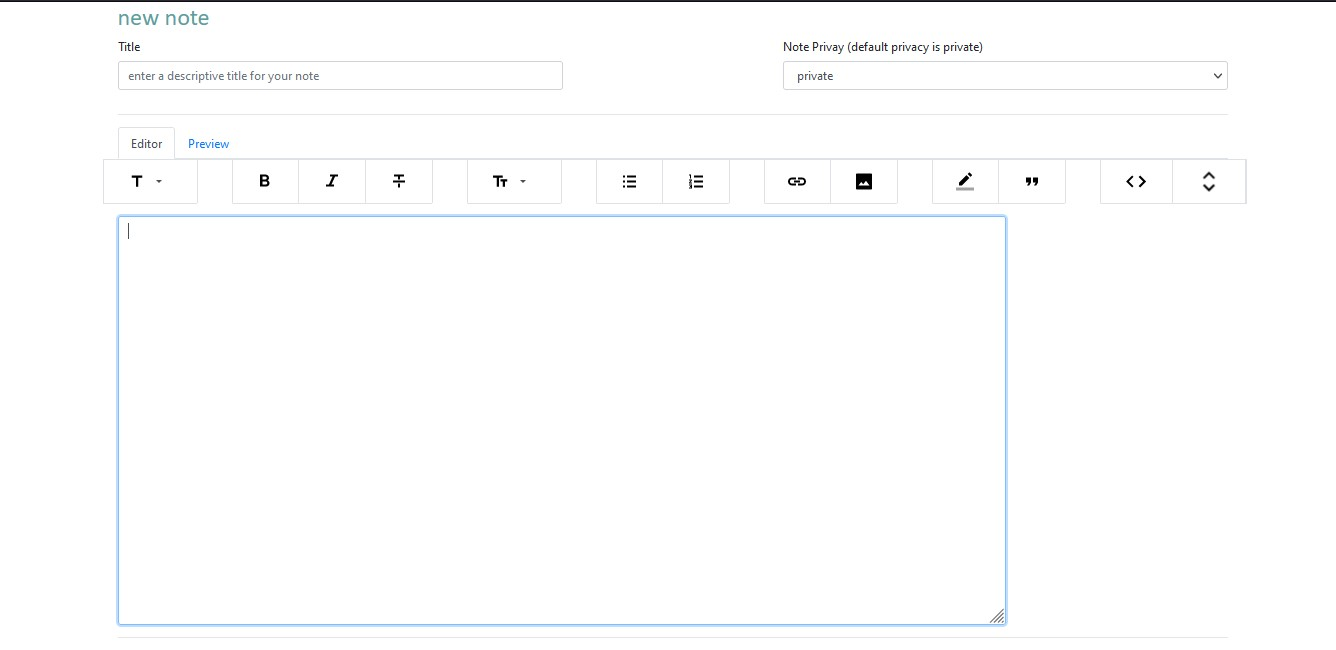
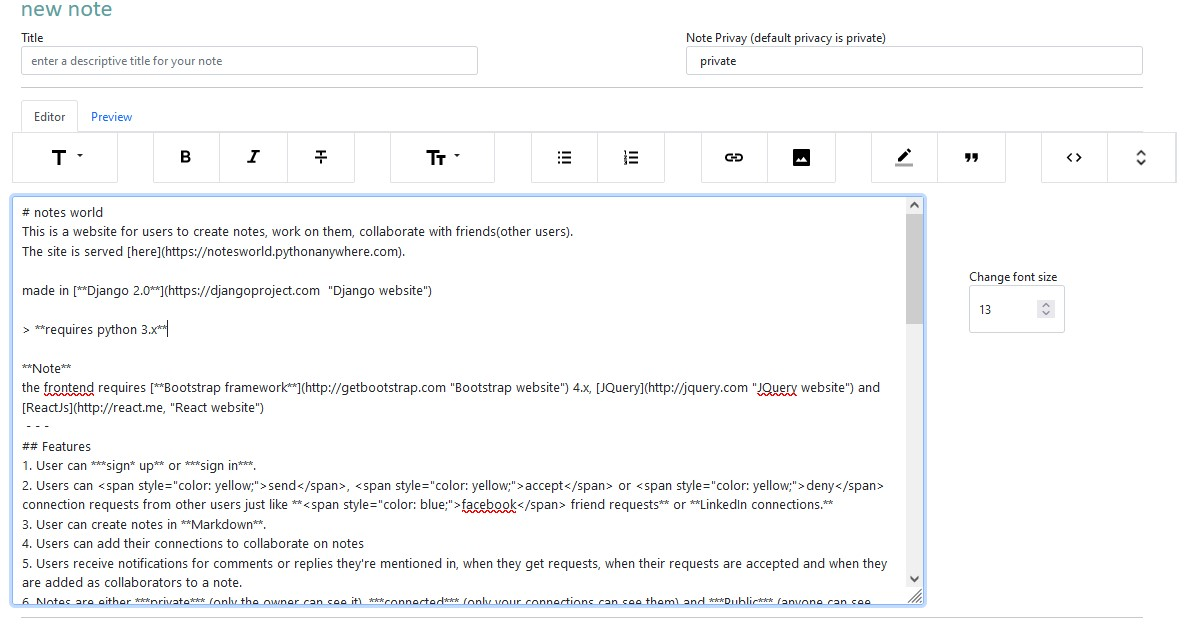
Adds preview of markdown content

diff --git a/JS/dep/marked.min.js b/JS/dep/marked.min.js
@@ -1,0 +1,6 @@
+/**
+ * marked - a markdown parser
+ * Copyright (c) 2011-2021, Christopher Jeffrey. (MIT Licensed)
+ * https://github.com/markedjs/marked
+ */
+!function(e,u){"object"==typeof exports&&"undefined"!=typeof module?module.exports=u():"function"==typeof define&&define.amd?define(u):(e="undefined"!=typeof globalThis?globalThis:e||self).marked=u()}(this,function(){"use strict";function r(e,u){for(var t=0;t<u.length;t++){var n=u[t];n.enumerable=n.enumerable||!1,n.configurable=!0,"value"in n&&(n.writable=!0),Object.defineProperty(e,n.key,n)}}function i(e,u){(null==u||u>e.length)&&(u=e.length);for(var t=0,n=new Array(u);t<u;t++)n[t]=e[t];return n}function c(e,u){var t="undefined"!=typeof Symbol&&e[Symbol.iterator]||e["@@iterator"];if(t)return(t=t.call(e)).next.bind(t);if(Array.isArray(e)||(t=function(e,u){if(e){if("string"==typeof e)return i(e,u);var t=Object.prototype.toString.call(e).slice(8,-1);return"Map"===(t="Object"===t&&e.constructor?e.constructor.name:t)||"Set"===t?Array.from(e):"Arguments"===t||/^(?:Ui|I)nt(?:8|16|32)(?:Clamped)?Array$/.test(t)?i(e,u):void 0}}(e))||u&&e&&"number"==typeof e.length){t&&(e=t);var n=0;return function(){return n>=e.length?{done:!0}:{done:!1,value:e[n++]}}}throw new TypeError("Invalid attempt to iterate non-iterable instance.\nIn order to be iterable, non-array objects must have a [Symbol.iterator]() method.")}var u={exports:{}};function e(){return{baseUrl:null,breaks:!1,gfm:!0,headerIds:!0,headerPrefix:"",highlight:null,langPrefix:"language-",mangle:!0,pedantic:!1,renderer:null,sanitize:!1,sanitizer:null,silent:!1,smartLists:!1,smartypants:!1,tokenizer:null,walkTokens:null,xhtml:!1}}u.exports={defaults:e(),getDefaults:e,changeDefaults:function(e){u.exports.defaults=e}};function t(e){return D[e]}var n=/[&<>"']/,s=/[&<>"']/g,l=/[<>"']|&(?!#?\w+;)/,a=/[<>"']|&(?!#?\w+;)/g,D={"&":"&amp;","<":"&lt;",">":"&gt;",'"':"&quot;","'":"&#39;"};var o=/&(#(?:\d+)|(?:#x[0-9A-Fa-f]+)|(?:\w+));?/gi;function h(e){return e.replace(o,function(e,u){return"colon"===(u=u.toLowerCase())?":":"#"===u.charAt(0)?"x"===u.charAt(1)?String.fromCharCode(parseInt(u.substring(2),16)):String.fromCharCode(+u.substring(1)):""})}var p=/(^|[^\[])\^/g;var g=/[^\w:]/g,f=/^$|^[a-z][a-z0-9+.-]*:|^[?#]/i;var F={},A=/^[^:]+:\/*[^/]*$/,C=/^([^:]+:)[\s\S]*$/,d=/^([^:]+:\/*[^/]*)[\s\S]*$/;function E(e,u){F[" "+e]||(A.test(e)?F[" "+e]=e+"/":F[" "+e]=k(e,"/",!0));var t=-1===(e=F[" "+e]).indexOf(":");return"//"===u.substring(0,2)?t?u:e.replace(C,"$1")+u:"/"===u.charAt(0)?t?u:e.replace(d,"$1")+u:e+u}function k(e,u,t){var n=e.length;if(0===n)return"";for(var r=0;r<n;){var i=e.charAt(n-r-1);if(i!==u||t){if(i===u||!t)break;r++}else r++}return e.substr(0,n-r)}var b=function(e,u){if(u){if(n.test(e))return e.replace(s,t)}else if(l.test(e))return e.replace(a,t);return e},m=h,x=function(t,e){t=t.source||t,e=e||"";var n={replace:function(e,u){return u=(u=u.source||u).replace(p,"$1"),t=t.replace(e,u),n},getRegex:function(){return new RegExp(t,e)}};return n},B=function(e,u,t){if(e){var n;try{n=decodeURIComponent(h(t)).replace(g,"").toLowerCase()}catch(e){return null}if(0===n.indexOf("javascript:")||0===n.indexOf("vbscript:")||0===n.indexOf("data:"))return null}u&&!f.test(t)&&(t=E(u,t));try{t=encodeURI(t).replace(/%25/g,"%")}catch(e){return null}return t},w={exec:function(){}},v=function(e){for(var u,t,n=1;n<arguments.length;n++)for(t in u=arguments[n])Object.prototype.hasOwnProperty.call(u,t)&&(e[t]=u[t]);return e},y=function(e){e&&e.sanitize&&!e.silent&&console.warn("marked(): sanitize and sanitizer parameters are deprecated since version 0.7.0, should not be used and will be removed in the future. Read more here: https://marked.js.org/#/USING_ADVANCED.md#options")},_=function(e,u){if(u<1)return"";for(var t="";1<u;)1&u&&(t+=e),u>>=1,e+=e;return t+e},z=u.exports.defaults,$=k,S=function(e,u){var t=e.replace(/\|/g,function(e,u,t){for(var n=!1,r=u;0<=--r&&"\\"===t[r];)n=!n;return n?"|":" |"}).split(/ \|/),n=0;if(t.length>u)t.splice(u);else for(;t.length<u;)t.push("");for(;n<t.length;n++)t[n]=t[n].trim().replace(/\\\|/g,"|");return t},T=b,R=function(e,u){if(-1===e.indexOf(u[1]))return-1;for(var t=e.length,n=0,r=0;r<t;r++)if("\\"===e[r])r++;else if(e[r]===u[0])n++;else if(e[r]===u[1]&&--n<0)return r;return-1};function I(e,u,t){var n=u.href,r=u.title?T(u.title):null,u=e[1].replace(/\\([\[\]])/g,"$1");return"!"!==e[0].charAt(0)?{type:"link",raw:t,href:n,title:r,text:u}:{type:"image",raw:t,href:n,title:r,text:T(u)}}var Z=function(){function e(e){this.options=e||z}var u=e.prototype;return u.space=function(e){e=this.rules.block.newline.exec(e);if(e)return 1<e[0].length?{type:"space",raw:e[0]}:{raw:"\n"}},u.code=function(e){var u=this.rules.block.code.exec(e);if(u){e=u[0].replace(/^ {1,4}/gm,"");return{type:"code",raw:u[0],codeBlockStyle:"indented",text:this.options.pedantic?e:$(e,"\n")}}},u.fences=function(e){var u=this.rules.block.fences.exec(e);if(u){var t=u[0],e=function(e,u){if(null===(e=e.match(/^(\s+)(?:```)/)))return u;var t=e[1];return u.split("\n").map(function(e){var u=e.match(/^\s+/);return null!==u&&u[0].length>=t.length?e.slice(t.length):e}).join("\n")}(t,u[3]||"");return{type:"code",raw:t,lang:u[2]&&u[2].trim(),text:e}}},u.heading=function(e){var u=this.rules.block.heading.exec(e);if(u){var t=u[2].trim();return/#$/.test(t)&&(e=$(t,"#"),!this.options.pedantic&&e&&!/ $/.test(e)||(t=e.trim())),{type:"heading",raw:u[0],depth:u[1].length,text:t}}},u.nptable=function(e){e=this.rules.block.nptable.exec(e);if(e){var u={type:"table",header:S(e[1].replace(/^ *| *\| *$/g,"")),align:e[2].replace(/^ *|\| *$/g,"").split(/ *\| */),cells:e[3]?e[3].replace(/\n$/,"").split("\n"):[],raw:e[0]};if(u.header.length===u.align.length){for(var t=u.align.length,n=0;n<t;n++)/^ *-+: *$/.test(u.align[n])?u.align[n]="right":/^ *:-+: *$/.test(u.align[n])?u.align[n]="center":/^ *:-+ *$/.test(u.align[n])?u.align[n]="left":u.align[n]=null;for(t=u.cells.length,n=0;n<t;n++)u.cells[n]=S(u.cells[n],u.header.length);return u}}},u.hr=function(e){e=this.rules.block.hr.exec(e);if(e)return{type:"hr",raw:e[0]}},u.blockquote=function(e){var u=this.rules.block.blockquote.exec(e);if(u){e=u[0].replace(/^ *> ?/gm,"");return{type:"blockquote",raw:u[0],text:e}}},u.list=function(e){e=this.rules.block.list.exec(e);if(e){for(var u,t,n,r,i,s,l=e[0],a=e[2],D=1<a.length,o={type:"list",raw:l,ordered:D,start:D?+a.slice(0,-1):"",loose:!1,items:[]},c=e[0].match(this.rules.block.item),h=!1,p=c.length,g=this.rules.block.listItemStart.exec(c[0]),f=0;f<p;f++){if(l=u=c[f],this.options.pedantic||(s=u.match(new RegExp("\\n\\s*\\n {0,"+(g[0].length-1)+"}\\S")))&&(t=u.length-s.index+c.slice(f+1).join("\n").length,o.raw=o.raw.substring(0,o.raw.length-t),l=u=u.substring(0,s.index),p=f+1),f!==p-1){if(n=this.rules.block.listItemStart.exec(c[f+1]),this.options.pedantic?n[1].length>g[1].length:n[1].length>=g[0].length||3<n[1].length){c.splice(f,2,c[f]+(!this.options.pedantic&&n[1].length<g[0].length&&!c[f].match(/\n$/)?"":"\n")+c[f+1]),f--,p--;continue}(!this.options.pedantic||this.options.smartLists?n[2][n[2].length-1]!==a[a.length-1]:D==(1===n[2].length))&&(t=c.slice(f+1).join("\n").length,o.raw=o.raw.substring(0,o.raw.length-t),f=p-1),g=n}n=u.length,~(u=u.replace(/^ *([*+-]|\d+[.)]) ?/,"")).indexOf("\n ")&&(n-=u.length,u=this.options.pedantic?u.replace(/^ {1,4}/gm,""):u.replace(new RegExp("^ {1,"+n+"}","gm"),"")),u=$(u,"\n"),f!==p-1&&(l+="\n"),n=h||/\n\n(?!\s*$)/.test(l),f!==p-1&&(h="\n\n"===l.slice(-2),n=n||h),n&&(o.loose=!0),this.options.gfm&&(i=void 0,(r=/^\[[ xX]\] /.test(u))&&(i=" "!==u[1],u=u.replace(/^\[[ xX]\] +/,""))),o.items.push({type:"list_item",raw:l,task:r,checked:i,loose:n,text:u})}return o}},u.html=function(e){e=this.rules.block.html.exec(e);if(e)return{type:this.options.sanitize?"paragraph":"html",raw:e[0],pre:!this.options.sanitizer&&("pre"===e[1]||"script"===e[1]||"style"===e[1]),text:this.options.sanitize?this.options.sanitizer?this.options.sanitizer(e[0]):T(e[0]):e[0]}},u.def=function(e){e=this.rules.block.def.exec(e);if(e)return e[3]&&(e[3]=e[3].substring(1,e[3].length-1)),{type:"def",tag:e[1].toLowerCase().replace(/\s+/g," "),raw:e[0],href:e[2],title:e[3]}},u.table=function(e){e=this.rules.block.table.exec(e);if(e){var u={type:"table",header:S(e[1].replace(/^ *| *\| *$/g,"")),align:e[2].replace(/^ *|\| *$/g,"").split(/ *\| */),cells:e[3]?e[3].replace(/\n$/,"").split("\n"):[]};if(u.header.length===u.align.length){u.raw=e[0];for(var t=u.align.length,n=0;n<t;n++)/^ *-+: *$/.test(u.align[n])?u.align[n]="right":/^ *:-+: *$/.test(u.align[n])?u.align[n]="center":/^ *:-+ *$/.test(u.align[n])?u.align[n]="left":u.align[n]=null;for(t=u.cells.length,n=0;n<t;n++)u.cells[n]=S(u.cells[n].replace(/^ *\| *| *\| *$/g,""),u.header.length);return u}}},u.lheading=function(e){e=this.rules.block.lheading.exec(e);if(e)return{type:"heading",raw:e[0],depth:"="===e[2].charAt(0)?1:2,text:e[1]}},u.paragraph=function(e){e=this.rules.block.paragraph.exec(e);if(e)return{type:"paragraph",raw:e[0],text:"\n"===e[1].charAt(e[1].length-1)?e[1].slice(0,-1):e[1]}},u.text=function(e){e=this.rules.block.text.exec(e);if(e)return{type:"text",raw:e[0],text:e[0]}},u.escape=function(e){e=this.rules.inline.escape.exec(e);if(e)return{type:"escape",raw:e[0],text:T(e[1])}},u.tag=function(e,u,t){e=this.rules.inline.tag.exec(e);if(e)return!u&&/^<a /i.test(e[0])?u=!0:u&&/^<\/a>/i.test(e[0])&&(u=!1),!t&&/^<(pre|code|kbd|script)(\s|>)/i.test(e[0])?t=!0:t&&/^<\/(pre|code|kbd|script)(\s|>)/i.test(e[0])&&(t=!1),{type:this.options.sanitize?"text":"html",raw:e[0],inLink:u,inRawBlock:t,text:this.options.sanitize?this.options.sanitizer?this.options.sanitizer(e[0]):T(e[0]):e[0]}},u.link=function(e){var u=this.rules.inline.link.exec(e);if(u){var t=u[2].trim();if(!this.options.pedantic&&/^</.test(t)){if(!/>$/.test(t))return;e=$(t.slice(0,-1),"\\");if((t.length-e.length)%2==0)return}else{var n=R(u[2],"()");-1<n&&(i=(0===u[0].indexOf("!")?5:4)+u[1].length+n,u[2]=u[2].substring(0,n),u[0]=u[0].substring(0,i).trim(),u[3]="")}var r,n=u[2],i="";return this.options.pedantic?(r=/^([^'"]*[^\s])\s+(['"])(.*)\2/.exec(n))&&(n=r[1],i=r[3]):i=u[3]?u[3].slice(1,-1):"",n=n.trim(),I(u,{href:(n=/^</.test(n)?this.options.pedantic&&!/>$/.test(t)?n.slice(1):n.slice(1,-1):n)&&n.replace(this.rules.inline._escapes,"$1"),title:i&&i.replace(this.rules.inline._escapes,"$1")},u[0])}},u.reflink=function(e,u){if((t=this.rules.inline.reflink.exec(e))||(t=this.rules.inline.nolink.exec(e))){e=(t[2]||t[1]).replace(/\s+/g," ");if((e=u[e.toLowerCase()])&&e.href)return I(t,e,t[0]);var t=t[0].charAt(0);return{type:"text",raw:t,text:t}}},u.emStrong=function(e,u,t){void 0===t&&(t="");var n=this.rules.inline.emStrong.lDelim.exec(e);if(n&&(!n[3]||!t.match(/(?:[0-9A-Za-z\xAA\xB2\xB3\xB5\xB9\xBA\xBC-\xBE\xC0-\xD6\xD8-\xF6\xF8-\u02C1\u02C6-\u02D1\u02E0-\u02E4\u02EC\u02EE\u0370-\u0374\u0376\u0377\u037A-\u037D\u037F\u0386\u0388-\u038A\u038C\u038E-\u03A1\u03A3-\u03F5\u03F7-\u0481\u048A-\u052F\u0531-\u0556\u0559\u0560-\u0588\u05D0-\u05EA\u05EF-\u05F2\u0620-\u064A\u0660-\u0669\u066E\u066F\u0671-\u06D3\u06D5\u06E5\u06E6\u06EE-\u06FC\u06FF\u0710\u0712-\u072F\u074D-\u07A5\u07B1\u07C0-\u07EA\u07F4\u07F5\u07FA\u0800-\u0815\u081A\u0824\u0828\u0840-\u0858\u0860-\u086A\u08A0-\u08B4\u08B6-\u08C7\u0904-\u0939\u093D\u0950\u0958-\u0961\u0966-\u096F\u0971-\u0980\u0985-\u098C\u098F\u0990\u0993-\u09A8\u09AA-\u09B0\u09B2\u09B6-\u09B9\u09BD\u09CE\u09DC\u09DD\u09DF-\u09E1\u09E6-\u09F1\u09F4-\u09F9\u09FC\u0A05-\u0A0A\u0A0F\u0A10\u0A13-\u0A28\u0A2A-\u0A30\u0A32\u0A33\u0A35\u0A36\u0A38\u0A39\u0A59-\u0A5C\u0A5E\u0A66-\u0A6F\u0A72-\u0A74\u0A85-\u0A8D\u0A8F-\u0A91\u0A93-\u0AA8\u0AAA-\u0AB0\u0AB2\u0AB3\u0AB5-\u0AB9\u0ABD\u0AD0\u0AE0\u0AE1\u0AE6-\u0AEF\u0AF9\u0B05-\u0B0C\u0B0F\u0B10\u0B13-\u0B28\u0B2A-\u0B30\u0B32\u0B33\u0B35-\u0B39\u0B3D\u0B5C\u0B5D\u0B5F-\u0B61\u0B66-\u0B6F\u0B71-\u0B77\u0B83\u0B85-\u0B8A\u0B8E-\u0B90\u0B92-\u0B95\u0B99\u0B9A\u0B9C\u0B9E\u0B9F\u0BA3\u0BA4\u0BA8-\u0BAA\u0BAE-\u0BB9\u0BD0\u0BE6-\u0BF2\u0C05-\u0C0C\u0C0E-\u0C10\u0C12-\u0C28\u0C2A-\u0C39\u0C3D\u0C58-\u0C5A\u0C60\u0C61\u0C66-\u0C6F\u0C78-\u0C7E\u0C80\u0C85-\u0C8C\u0C8E-\u0C90\u0C92-\u0CA8\u0CAA-\u0CB3\u0CB5-\u0CB9\u0CBD\u0CDE\u0CE0\u0CE1\u0CE6-\u0CEF\u0CF1\u0CF2\u0D04-\u0D0C\u0D0E-\u0D10\u0D12-\u0D3A\u0D3D\u0D4E\u0D54-\u0D56\u0D58-\u0D61\u0D66-\u0D78\u0D7A-\u0D7F\u0D85-\u0D96\u0D9A-\u0DB1\u0DB3-\u0DBB\u0DBD\u0DC0-\u0DC6\u0DE6-\u0DEF\u0E01-\u0E30\u0E32\u0E33\u0E40-\u0E46\u0E50-\u0E59\u0E81\u0E82\u0E84\u0E86-\u0E8A\u0E8C-\u0EA3\u0EA5\u0EA7-\u0EB0\u0EB2\u0EB3\u0EBD\u0EC0-\u0EC4\u0EC6\u0ED0-\u0ED9\u0EDC-\u0EDF\u0F00\u0F20-\u0F33\u0F40-\u0F47\u0F49-\u0F6C\u0F88-\u0F8C\u1000-\u102A\u103F-\u1049\u1050-\u1055\u105A-\u105D\u1061\u1065\u1066\u106E-\u1070\u1075-\u1081\u108E\u1090-\u1099\u10A0-\u10C5\u10C7\u10CD\u10D0-\u10FA\u10FC-\u1248\u124A-\u124D\u1250-\u1256\u1258\u125A-\u125D\u1260-\u1288\u128A-\u128D\u1290-\u12B0\u12B2-\u12B5\u12B8-\u12BE\u12C0\u12C2-\u12C5\u12C8-\u12D6\u12D8-\u1310\u1312-\u1315\u1318-\u135A\u1369-\u137C\u1380-\u138F\u13A0-\u13F5\u13F8-\u13FD\u1401-\u166C\u166F-\u167F\u1681-\u169A\u16A0-\u16EA\u16EE-\u16F8\u1700-\u170C\u170E-\u1711\u1720-\u1731\u1740-\u1751\u1760-\u176C\u176E-\u1770\u1780-\u17B3\u17D7\u17DC\u17E0-\u17E9\u17F0-\u17F9\u1810-\u1819\u1820-\u1878\u1880-\u1884\u1887-\u18A8\u18AA\u18B0-\u18F5\u1900-\u191E\u1946-\u196D\u1970-\u1974\u1980-\u19AB\u19B0-\u19C9\u19D0-\u19DA\u1A00-\u1A16\u1A20-\u1A54\u1A80-\u1A89\u1A90-\u1A99\u1AA7\u1B05-\u1B33\u1B45-\u1B4B\u1B50-\u1B59\u1B83-\u1BA0\u1BAE-\u1BE5\u1C00-\u1C23\u1C40-\u1C49\u1C4D-\u1C7D\u1C80-\u1C88\u1C90-\u1CBA\u1CBD-\u1CBF\u1CE9-\u1CEC\u1CEE-\u1CF3\u1CF5\u1CF6\u1CFA\u1D00-\u1DBF\u1E00-\u1F15\u1F18-\u1F1D\u1F20-\u1F45\u1F48-\u1F4D\u1F50-\u1F57\u1F59\u1F5B\u1F5D\u1F5F-\u1F7D\u1F80-\u1FB4\u1FB6-\u1FBC\u1FBE\u1FC2-\u1FC4\u1FC6-\u1FCC\u1FD0-\u1FD3\u1FD6-\u1FDB\u1FE0-\u1FEC\u1FF2-\u1FF4\u1FF6-\u1FFC\u2070\u2071\u2074-\u2079\u207F-\u2089\u2090-\u209C\u2102\u2107\u210A-\u2113\u2115\u2119-\u211D\u2124\u2126\u2128\u212A-\u212D\u212F-\u2139\u213C-\u213F\u2145-\u2149\u214E\u2150-\u2189\u2460-\u249B\u24EA-\u24FF\u2776-\u2793\u2C00-\u2C2E\u2C30-\u2C5E\u2C60-\u2CE4\u2CEB-\u2CEE\u2CF2\u2CF3\u2CFD\u2D00-\u2D25\u2D27\u2D2D\u2D30-\u2D67\u2D6F\u2D80-\u2D96\u2DA0-\u2DA6\u2DA8-\u2DAE\u2DB0-\u2DB6\u2DB8-\u2DBE\u2DC0-\u2DC6\u2DC8-\u2DCE\u2DD0-\u2DD6\u2DD8-\u2DDE\u2E2F\u3005-\u3007\u3021-\u3029\u3031-\u3035\u3038-\u303C\u3041-\u3096\u309D-\u309F\u30A1-\u30FA\u30FC-\u30FF\u3105-\u312F\u3131-\u318E\u3192-\u3195\u31A0-\u31BF\u31F0-\u31FF\u3220-\u3229\u3248-\u324F\u3251-\u325F\u3280-\u3289\u32B1-\u32BF\u3400-\u4DBF\u4E00-\u9FFC\uA000-\uA48C\uA4D0-\uA4FD\uA500-\uA60C\uA610-\uA62B\uA640-\uA66E\uA67F-\uA69D\uA6A0-\uA6EF\uA717-\uA71F\uA722-\uA788\uA78B-\uA7BF\uA7C2-\uA7CA\uA7F5-\uA801\uA803-\uA805\uA807-\uA80A\uA80C-\uA822\uA830-\uA835\uA840-\uA873\uA882-\uA8B3\uA8D0-\uA8D9\uA8F2-\uA8F7\uA8FB\uA8FD\uA8FE\uA900-\uA925\uA930-\uA946\uA960-\uA97C\uA984-\uA9B2\uA9CF-\uA9D9\uA9E0-\uA9E4\uA9E6-\uA9FE\uAA00-\uAA28\uAA40-\uAA42\uAA44-\uAA4B\uAA50-\uAA59\uAA60-\uAA76\uAA7A\uAA7E-\uAAAF\uAAB1\uAAB5\uAAB6\uAAB9-\uAABD\uAAC0\uAAC2\uAADB-\uAADD\uAAE0-\uAAEA\uAAF2-\uAAF4\uAB01-\uAB06\uAB09-\uAB0E\uAB11-\uAB16\uAB20-\uAB26\uAB28-\uAB2E\uAB30-\uAB5A\uAB5C-\uAB69\uAB70-\uABE2\uABF0-\uABF9\uAC00-\uD7A3\uD7B0-\uD7C6\uD7CB-\uD7FB\uF900-\uFA6D\uFA70-\uFAD9\uFB00-\uFB06\uFB13-\uFB17\uFB1D\uFB1F-\uFB28\uFB2A-\uFB36\uFB38-\uFB3C\uFB3E\uFB40\uFB41\uFB43\uFB44\uFB46-\uFBB1\uFBD3-\uFD3D\uFD50-\uFD8F\uFD92-\uFDC7\uFDF0-\uFDFB\uFE70-\uFE74\uFE76-\uFEFC\uFF10-\uFF19\uFF21-\uFF3A\uFF41-\uFF5A\uFF66-\uFFBE\uFFC2-\uFFC7\uFFCA-\uFFCF\uFFD2-\uFFD7\uFFDA-\uFFDC]|\uD800[\uDC00-\uDC0B\uDC0D-\uDC26\uDC28-\uDC3A\uDC3C\uDC3D\uDC3F-\uDC4D\uDC50-\uDC5D\uDC80-\uDCFA\uDD07-\uDD33\uDD40-\uDD78\uDD8A\uDD8B\uDE80-\uDE9C\uDEA0-\uDED0\uDEE1-\uDEFB\uDF00-\uDF23\uDF2D-\uDF4A\uDF50-\uDF75\uDF80-\uDF9D\uDFA0-\uDFC3\uDFC8-\uDFCF\uDFD1-\uDFD5]|\uD801[\uDC00-\uDC9D\uDCA0-\uDCA9\uDCB0-\uDCD3\uDCD8-\uDCFB\uDD00-\uDD27\uDD30-\uDD63\uDE00-\uDF36\uDF40-\uDF55\uDF60-\uDF67]|\uD802[\uDC00-\uDC05\uDC08\uDC0A-\uDC35\uDC37\uDC38\uDC3C\uDC3F-\uDC55\uDC58-\uDC76\uDC79-\uDC9E\uDCA7-\uDCAF\uDCE0-\uDCF2\uDCF4\uDCF5\uDCFB-\uDD1B\uDD20-\uDD39\uDD80-\uDDB7\uDDBC-\uDDCF\uDDD2-\uDE00\uDE10-\uDE13\uDE15-\uDE17\uDE19-\uDE35\uDE40-\uDE48\uDE60-\uDE7E\uDE80-\uDE9F\uDEC0-\uDEC7\uDEC9-\uDEE4\uDEEB-\uDEEF\uDF00-\uDF35\uDF40-\uDF55\uDF58-\uDF72\uDF78-\uDF91\uDFA9-\uDFAF]|\uD803[\uDC00-\uDC48\uDC80-\uDCB2\uDCC0-\uDCF2\uDCFA-\uDD23\uDD30-\uDD39\uDE60-\uDE7E\uDE80-\uDEA9\uDEB0\uDEB1\uDF00-\uDF27\uDF30-\uDF45\uDF51-\uDF54\uDFB0-\uDFCB\uDFE0-\uDFF6]|\uD804[\uDC03-\uDC37\uDC52-\uDC6F\uDC83-\uDCAF\uDCD0-\uDCE8\uDCF0-\uDCF9\uDD03-\uDD26\uDD36-\uDD3F\uDD44\uDD47\uDD50-\uDD72\uDD76\uDD83-\uDDB2\uDDC1-\uDDC4\uDDD0-\uDDDA\uDDDC\uDDE1-\uDDF4\uDE00-\uDE11\uDE13-\uDE2B\uDE80-\uDE86\uDE88\uDE8A-\uDE8D\uDE8F-\uDE9D\uDE9F-\uDEA8\uDEB0-\uDEDE\uDEF0-\uDEF9\uDF05-\uDF0C\uDF0F\uDF10\uDF13-\uDF28\uDF2A-\uDF30\uDF32\uDF33\uDF35-\uDF39\uDF3D\uDF50\uDF5D-\uDF61]|\uD805[\uDC00-\uDC34\uDC47-\uDC4A\uDC50-\uDC59\uDC5F-\uDC61\uDC80-\uDCAF\uDCC4\uDCC5\uDCC7\uDCD0-\uDCD9\uDD80-\uDDAE\uDDD8-\uDDDB\uDE00-\uDE2F\uDE44\uDE50-\uDE59\uDE80-\uDEAA\uDEB8\uDEC0-\uDEC9\uDF00-\uDF1A\uDF30-\uDF3B]|\uD806[\uDC00-\uDC2B\uDCA0-\uDCF2\uDCFF-\uDD06\uDD09\uDD0C-\uDD13\uDD15\uDD16\uDD18-\uDD2F\uDD3F\uDD41\uDD50-\uDD59\uDDA0-\uDDA7\uDDAA-\uDDD0\uDDE1\uDDE3\uDE00\uDE0B-\uDE32\uDE3A\uDE50\uDE5C-\uDE89\uDE9D\uDEC0-\uDEF8]|\uD807[\uDC00-\uDC08\uDC0A-\uDC2E\uDC40\uDC50-\uDC6C\uDC72-\uDC8F\uDD00-\uDD06\uDD08\uDD09\uDD0B-\uDD30\uDD46\uDD50-\uDD59\uDD60-\uDD65\uDD67\uDD68\uDD6A-\uDD89\uDD98\uDDA0-\uDDA9\uDEE0-\uDEF2\uDFB0\uDFC0-\uDFD4]|\uD808[\uDC00-\uDF99]|\uD809[\uDC00-\uDC6E\uDC80-\uDD43]|[\uD80C\uD81C-\uD820\uD822\uD840-\uD868\uD86A-\uD86C\uD86F-\uD872\uD874-\uD879\uD880-\uD883][\uDC00-\uDFFF]|\uD80D[\uDC00-\uDC2E]|\uD811[\uDC00-\uDE46]|\uD81A[\uDC00-\uDE38\uDE40-\uDE5E\uDE60-\uDE69\uDED0-\uDEED\uDF00-\uDF2F\uDF40-\uDF43\uDF50-\uDF59\uDF5B-\uDF61\uDF63-\uDF77\uDF7D-\uDF8F]|\uD81B[\uDE40-\uDE96\uDF00-\uDF4A\uDF50\uDF93-\uDF9F\uDFE0\uDFE1\uDFE3]|\uD821[\uDC00-\uDFF7]|\uD823[\uDC00-\uDCD5\uDD00-\uDD08]|\uD82C[\uDC00-\uDD1E\uDD50-\uDD52\uDD64-\uDD67\uDD70-\uDEFB]|\uD82F[\uDC00-\uDC6A\uDC70-\uDC7C\uDC80-\uDC88\uDC90-\uDC99]|\uD834[\uDEE0-\uDEF3\uDF60-\uDF78]|\uD835[\uDC00-\uDC54\uDC56-\uDC9C\uDC9E\uDC9F\uDCA2\uDCA5\uDCA6\uDCA9-\uDCAC\uDCAE-\uDCB9\uDCBB\uDCBD-\uDCC3\uDCC5-\uDD05\uDD07-\uDD0A\uDD0D-\uDD14\uDD16-\uDD1C\uDD1E-\uDD39\uDD3B-\uDD3E\uDD40-\uDD44\uDD46\uDD4A-\uDD50\uDD52-\uDEA5\uDEA8-\uDEC0\uDEC2-\uDEDA\uDEDC-\uDEFA\uDEFC-\uDF14\uDF16-\uDF34\uDF36-\uDF4E\uDF50-\uDF6E\uDF70-\uDF88\uDF8A-\uDFA8\uDFAA-\uDFC2\uDFC4-\uDFCB\uDFCE-\uDFFF]|\uD838[\uDD00-\uDD2C\uDD37-\uDD3D\uDD40-\uDD49\uDD4E\uDEC0-\uDEEB\uDEF0-\uDEF9]|\uD83A[\uDC00-\uDCC4\uDCC7-\uDCCF\uDD00-\uDD43\uDD4B\uDD50-\uDD59]|\uD83B[\uDC71-\uDCAB\uDCAD-\uDCAF\uDCB1-\uDCB4\uDD01-\uDD2D\uDD2F-\uDD3D\uDE00-\uDE03\uDE05-\uDE1F\uDE21\uDE22\uDE24\uDE27\uDE29-\uDE32\uDE34-\uDE37\uDE39\uDE3B\uDE42\uDE47\uDE49\uDE4B\uDE4D-\uDE4F\uDE51\uDE52\uDE54\uDE57\uDE59\uDE5B\uDE5D\uDE5F\uDE61\uDE62\uDE64\uDE67-\uDE6A\uDE6C-\uDE72\uDE74-\uDE77\uDE79-\uDE7C\uDE7E\uDE80-\uDE89\uDE8B-\uDE9B\uDEA1-\uDEA3\uDEA5-\uDEA9\uDEAB-\uDEBB]|\uD83C[\uDD00-\uDD0C]|\uD83E[\uDFF0-\uDFF9]|\uD869[\uDC00-\uDEDD\uDF00-\uDFFF]|\uD86D[\uDC00-\uDF34\uDF40-\uDFFF]|\uD86E[\uDC00-\uDC1D\uDC20-\uDFFF]|\uD873[\uDC00-\uDEA1\uDEB0-\uDFFF]|\uD87A[\uDC00-\uDFE0]|\uD87E[\uDC00-\uDE1D]|\uD884[\uDC00-\uDF4A])/))){var r=n[1]||n[2]||"";if(!r||r&&(""===t||this.rules.inline.punctuation.exec(t))){var i,s=n[0].length-1,l=s,a=0,D="*"===n[0][0]?this.rules.inline.emStrong.rDelimAst:this.rules.inline.emStrong.rDelimUnd;for(D.lastIndex=0,u=u.slice(-1*e.length+s);null!=(n=D.exec(u));)if(i=n[1]||n[2]||n[3]||n[4]||n[5]||n[6])if(i=i.length,n[3]||n[4])l+=i;else if(!((n[5]||n[6])&&s%3)||(s+i)%3){if(!(0<(l-=i)))return i=Math.min(i,i+l+a),Math.min(s,i)%2?{type:"em",raw:e.slice(0,s+n.index+i+1),text:e.slice(1,s+n.index+i)}:{type:"strong",raw:e.slice(0,s+n.index+i+1),text:e.slice(2,s+n.index+i-1)}}else a+=i}}},u.codespan=function(e){var u=this.rules.inline.code.exec(e);if(u){var t=u[2].replace(/\n/g," "),n=/[^ ]/.test(t),e=/^ /.test(t)&&/ $/.test(t);return n&&e&&(t=t.substring(1,t.length-1)),t=T(t,!0),{type:"codespan",raw:u[0],text:t}}},u.br=function(e){e=this.rules.inline.br.exec(e);if(e)return{type:"br",raw:e[0]}},u.del=function(e){e=this.rules.inline.del.exec(e);if(e)return{type:"del",raw:e[0],text:e[2]}},u.autolink=function(e,u){e=this.rules.inline.autolink.exec(e);if(e){var t,u="@"===e[2]?"mailto:"+(t=T(this.options.mangle?u(e[1]):e[1])):t=T(e[1]);return{type:"link",raw:e[0],text:t,href:u,tokens:[{type:"text",raw:t,text:t}]}}},u.url=function(e,u){var t,n,r,i;if(t=this.rules.inline.url.exec(e)){if("@"===t[2])r="mailto:"+(n=T(this.options.mangle?u(t[0]):t[0]));else{for(;i=t[0],t[0]=this.rules.inline._backpedal.exec(t[0])[0],i!==t[0];);n=T(t[0]),r="www."===t[1]?"http://"+n:n}return{type:"link",raw:t[0],text:n,href:r,tokens:[{type:"text",raw:n,text:n}]}}},u.inlineText=function(e,u,t){e=this.rules.inline.text.exec(e);if(e){t=u?this.options.sanitize?this.options.sanitizer?this.options.sanitizer(e[0]):T(e[0]):e[0]:T(this.options.smartypants?t(e[0]):e[0]);return{type:"text",raw:e[0],text:t}}},e}(),q=w,O=x,w=v,x={newline:/^(?: *(?:\n|$))+/,code:/^( {4}[^\n]+(?:\n(?: *(?:\n|$))*)?)+/,fences:/^ {0,3}(`{3,}(?=[^`\n]*\n)|~{3,})([^\n]*)\n(?:|([\s\S]*?)\n)(?: {0,3}\1[~`]* *(?:\n+|$)|$)/,hr:/^ {0,3}((?:- *){3,}|(?:_ *){3,}|(?:\* *){3,})(?:\n+|$)/,heading:/^ {0,3}(#{1,6})(?=\s|$)(.*)(?:\n+|$)/,blockquote:/^( {0,3}> ?(paragraph|[^\n]*)(?:\n|$))+/,list:/^( {0,3})(bull) [\s\S]+?(?:hr|def|\n{2,}(?! )(?! {0,3}bull )\n*|\s*$)/,html:"^ {0,3}(?:<(script|pre|style)[\\s>][\\s\\S]*?(?:</\\1>[^\\n]*\\n+|$)|comment[^\\n]*(\\n+|$)|<\\?[\\s\\S]*?(?:\\?>\\n*|$)|<![A-Z][\\s\\S]*?(?:>\\n*|$)|<!\\[CDATA\\[[\\s\\S]*?(?:\\]\\]>\\n*|$)|</?(tag)(?: +|\\n|/?>)[\\s\\S]*?(?:(?:\\n *)+\\n|$)|<(?!script|pre|style)([a-z][\\w-]*)(?:attribute)*? */?>(?=[ \\t]*(?:\\n|$))[\\s\\S]*?(?:(?:\\n *)+\\n|$)|</(?!script|pre|style)[a-z][\\w-]*\\s*>(?=[ \\t]*(?:\\n|$))[\\s\\S]*?(?:(?:\\n *)+\\n|$))",def:/^ {0,3}\[(label)\]: *\n? *<?([^\s>]+)>?(?:(?: +\n? *| *\n *)(title))? *(?:\n+|$)/,nptable:q,table:q,lheading:/^([^\n]+)\n {0,3}(=+|-+) *(?:\n+|$)/,_paragraph:/^([^\n]+(?:\n(?!hr|heading|lheading|blockquote|fences|list|html| +\n)[^\n]+)*)/,text:/^[^\n]+/,_label:/(?!\s*\])(?:\\[\[\]]|[^\[\]])+/,_title:/(?:"(?:\\"?|[^"\\])*"|'[^'\n]*(?:\n[^'\n]+)*\n?'|\([^()]*\))/};x.def=O(x.def).replace("label",x._label).replace("title",x._title).getRegex(),x.bullet=/(?:[*+-]|\d{1,9}[.)])/,x.item=/^( *)(bull) ?[^\n]*(?:\n(?! *bull ?)[^\n]*)*/,x.item=O(x.item,"gm").replace(/bull/g,x.bullet).getRegex(),x.listItemStart=O(/^( *)(bull) */).replace("bull",x.bullet).getRegex(),x.list=O(x.list).replace(/bull/g,x.bullet).replace("hr","\\n+(?=\\1?(?:(?:- *){3,}|(?:_ *){3,}|(?:\\* *){3,})(?:\\n+|$))").replace("def","\\n+(?="+x.def.source+")").getRegex(),x._tag="address|article|aside|base|basefont|blockquote|body|caption|center|col|colgroup|dd|details|dialog|dir|div|dl|dt|fieldset|figcaption|figure|footer|form|frame|frameset|h[1-6]|head|header|hr|html|iframe|legend|li|link|main|menu|menuitem|meta|nav|noframes|ol|optgroup|option|p|param|section|source|summary|table|tbody|td|tfoot|th|thead|title|tr|track|ul",x._comment=/<!--(?!-?>)[\s\S]*?(?:-->|$)/,x.html=O(x.html,"i").replace("comment",x._comment).replace("tag",x._tag).replace("attribute",/ +[a-zA-Z:_][\w.:-]*(?: *= *"[^"\n]*"| *= *'[^'\n]*'| *= *[^\s"'=<>`]+)?/).getRegex(),x.paragraph=O(x._paragraph).replace("hr",x.hr).replace("heading"," {0,3}#{1,6} ").replace("|lheading","").replace("blockquote"," {0,3}>").replace("fences"," {0,3}(?:`{3,}(?=[^`\\n]*\\n)|~{3,})[^\\n]*\\n").replace("list"," {0,3}(?:[*+-]|1[.)]) ").replace("html","</?(?:tag)(?: +|\\n|/?>)|<(?:script|pre|style|!--)").replace("tag",x._tag).getRegex(),x.blockquote=O(x.blockquote).replace("paragraph",x.paragraph).getRegex(),x.normal=w({},x),x.gfm=w({},x.normal,{nptable:"^ *([^|\\n ].*\\|.*)\\n {0,3}([-:]+ *\\|[-| :]*)(?:\\n((?:(?!\\n|hr|heading|blockquote|code|fences|list|html).*(?:\\n|$))*)\\n*|$)",table:"^ *\\|(.+)\\n {0,3}\\|?( *[-:]+[-| :]*)(?:\\n *((?:(?!\\n|hr|heading|blockquote|code|fences|list|html).*(?:\\n|$))*)\\n*|$)"}),x.gfm.nptable=O(x.gfm.nptable).replace("hr",x.hr).replace("heading"," {0,3}#{1,6} ").replace("blockquote"," {0,3}>").replace("code"," {4}[^\\n]").replace("fences"," {0,3}(?:`{3,}(?=[^`\\n]*\\n)|~{3,})[^\\n]*\\n").replace("list"," {0,3}(?:[*+-]|1[.)]) ").replace("html","</?(?:tag)(?: +|\\n|/?>)|<(?:script|pre|style|!--)").replace("tag",x._tag).getRegex(),x.gfm.table=O(x.gfm.table).replace("hr",x.hr).replace("heading"," {0,3}#{1,6} ").replace("blockquote"," {0,3}>").replace("code"," {4}[^\\n]").replace("fences"," {0,3}(?:`{3,}(?=[^`\\n]*\\n)|~{3,})[^\\n]*\\n").replace("list"," {0,3}(?:[*+-]|1[.)]) ").replace("html","</?(?:tag)(?: +|\\n|/?>)|<(?:script|pre|style|!--)").replace("tag",x._tag).getRegex(),x.pedantic=w({},x.normal,{html:O("^ *(?:comment *(?:\\n|\\s*$)|<(tag)[\\s\\S]+?</\\1> *(?:\\n{2,}|\\s*$)|<tag(?:\"[^\"]*\"|'[^']*'|\\s[^'\"/>\\s]*)*?/?> *(?:\\n{2,}|\\s*$))").replace("comment",x._comment).replace(/tag/g,"(?!(?:a|em|strong|small|s|cite|q|dfn|abbr|data|time|code|var|samp|kbd|sub|sup|i|b|u|mark|ruby|rt|rp|bdi|bdo|span|br|wbr|ins|del|img)\\b)\\w+(?!:|[^\\w\\s@]*@)\\b").getRegex(),def:/^ *\[([^\]]+)\]: *<?([^\s>]+)>?(?: +(["(][^\n]+[")]))? *(?:\n+|$)/,heading:/^(#{1,6})(.*)(?:\n+|$)/,fences:q,paragraph:O(x.normal._paragraph).replace("hr",x.hr).replace("heading"," *#{1,6} *[^\n]").replace("lheading",x.lheading).replace("blockquote"," {0,3}>").replace("|fences","").replace("|list","").replace("|html","").getRegex()});q={escape:/^\\([!"#$%&'()*+,\-./:;<=>?@\[\]\\^_`{|}~])/,autolink:/^<(scheme:[^\s\x00-\x1f<>]*|email)>/,url:q,tag:"^comment|^</[a-zA-Z][\\w:-]*\\s*>|^<[a-zA-Z][\\w-]*(?:attribute)*?\\s*/?>|^<\\?[\\s\\S]*?\\?>|^<![a-zA-Z]+\\s[\\s\\S]*?>|^<!\\[CDATA\\[[\\s\\S]*?\\]\\]>",link:/^!?\[(label)\]\(\s*(href)(?:\s+(title))?\s*\)/,reflink:/^!?\[(label)\]\[(?!\s*\])((?:\\[\[\]]?|[^\[\]\\])+)\]/,nolink:/^!?\[(?!\s*\])((?:\[[^\[\]]*\]|\\[\[\]]|[^\[\]])*)\](?:\[\])?/,reflinkSearch:"reflink|nolink(?!\\()",emStrong:{lDelim:/^(?:\*+(?:([punct_])|[^\s*]))|^_+(?:([punct*])|([^\s_]))/,rDelimAst:/\_\_[^_*]*?\*[^_*]*?\_\_|[punct_](\*+)(?=[\s]|$)|[^punct*_\s](\*+)(?=[punct_\s]|$)|[punct_\s](\*+)(?=[^punct*_\s])|[\s](\*+)(?=[punct_])|[punct_](\*+)(?=[punct_])|[^punct*_\s](\*+)(?=[^punct*_\s])/,rDelimUnd:/\*\*[^_*]*?\_[^_*]*?\*\*|[punct*](\_+)(?=[\s]|$)|[^punct*_\s](\_+)(?=[punct*\s]|$)|[punct*\s](\_+)(?=[^punct*_\s])|[\s](\_+)(?=[punct*])|[punct*](\_+)(?=[punct*])/},code:/^(`+)([^`]|[^`][\s\S]*?[^`])\1(?!`)/,br:/^( {2,}|\\)\n(?!\s*$)/,del:q,text:/^(`+|[^`])(?:(?= {2,}\n)|[\s\S]*?(?:(?=[\\<!\[`*_]|\b_|$)|[^ ](?= {2,}\n)))/,punctuation:/^([\spunctuation])/,_punctuation:"!\"#$%&'()+\\-.,/:;<=>?@\\[\\]`^{|}~"};q.punctuation=O(q.punctuation).replace(/punctuation/g,q._punctuation).getRegex(),q.blockSkip=/\[[^\]]*?\]\([^\)]*?\)|`[^`]*?`|<[^>]*?>/g,q.escapedEmSt=/\\\*|\\_/g,q._comment=O(x._comment).replace("(?:--\x3e|$)","--\x3e").getRegex(),q.emStrong.lDelim=O(q.emStrong.lDelim).replace(/punct/g,q._punctuation).getRegex(),q.emStrong.rDelimAst=O(q.emStrong.rDelimAst,"g").replace(/punct/g,q._punctuation).getRegex(),q.emStrong.rDelimUnd=O(q.emStrong.rDelimUnd,"g").replace(/punct/g,q._punctuation).getRegex(),q._escapes=/\\([!"#$%&'()*+,\-./:;<=>?@\[\]\\^_`{|}~])/g,q._scheme=/[a-zA-Z][a-zA-Z0-9+.-]{1,31}/,q._email=/[a-zA-Z0-9.!#$%&'*+/=?^_`{|}~-]+(@)[a-zA-Z0-9](?:[a-zA-Z0-9-]{0,61}[a-zA-Z0-9])?(?:\.[a-zA-Z0-9](?:[a-zA-Z0-9-]{0,61}[a-zA-Z0-9])?)+(?![-_])/,q.autolink=O(q.autolink).replace("scheme",q._scheme).replace("email",q._email).getRegex(),q._attribute=/\s+[a-zA-Z:_][\w.:-]*(?:\s*=\s*"[^"]*"|\s*=\s*'[^']*'|\s*=\s*[^\s"'=<>`]+)?/,q.tag=O(q.tag).replace("comment",q._comment).replace("attribute",q._attribute).getRegex(),q._label=/(?:\[(?:\\.|[^\[\]\\])*\]|\\.|`[^`]*`|[^\[\]\\`])*?/,q._href=/<(?:\\.|[^\n<>\\])+>|[^\s\x00-\x1f]*/,q._title=/"(?:\\"?|[^"\\])*"|'(?:\\'?|[^'\\])*'|\((?:\\\)?|[^)\\])*\)/,q.link=O(q.link).replace("label",q._label).replace("href",q._href).replace("title",q._title).getRegex(),q.reflink=O(q.reflink).replace("label",q._label).getRegex(),q.reflinkSearch=O(q.reflinkSearch,"g").replace("reflink",q.reflink).replace("nolink",q.nolink).getRegex(),q.normal=w({},q),q.pedantic=w({},q.normal,{strong:{start:/^__|\*\*/,middle:/^__(?=\S)([\s\S]*?\S)__(?!_)|^\*\*(?=\S)([\s\S]*?\S)\*\*(?!\*)/,endAst:/\*\*(?!\*)/g,endUnd:/__(?!_)/g},em:{start:/^_|\*/,middle:/^()\*(?=\S)([\s\S]*?\S)\*(?!\*)|^_(?=\S)([\s\S]*?\S)_(?!_)/,endAst:/\*(?!\*)/g,endUnd:/_(?!_)/g},link:O(/^!?\[(label)\]\((.*?)\)/).replace("label",q._label).getRegex(),reflink:O(/^!?\[(label)\]\s*\[([^\]]*)\]/).replace("label",q._label).getRegex()}),q.gfm=w({},q.normal,{escape:O(q.escape).replace("])","~|])").getRegex(),_extended_email:/[A-Za-z0-9._+-]+(@)[a-zA-Z0-9-_]+(?:\.[a-zA-Z0-9-_]*[a-zA-Z0-9])+(?![-_])/,url:/^((?:ftp|https?):\/\/|www\.)(?:[a-zA-Z0-9\-]+\.?)+[^\s<]*|^email/,_backpedal:/(?:[^?!.,:;*_~()&]+|\([^)]*\)|&(?![a-zA-Z0-9]+;$)|[?!.,:;*_~)]+(?!$))+/,del:/^(~~?)(?=[^\s~])([\s\S]*?[^\s~])\1(?=[^~]|$)/,text:/^([`~]+|[^`~])(?:(?= {2,}\n)|(?=[a-zA-Z0-9.!#$%&'*+\/=?_`{\|}~-]+@)|[\s\S]*?(?:(?=[\\<!\[`*~_]|\b_|https?:\/\/|ftp:\/\/|www\.|$)|[^ ](?= {2,}\n)|[^a-zA-Z0-9.!#$%&'*+\/=?_`{\|}~-](?=[a-zA-Z0-9.!#$%&'*+\/=?_`{\|}~-]+@)))/}),q.gfm.url=O(q.gfm.url,"i").replace("email",q.gfm._extended_email).getRegex(),q.breaks=w({},q.gfm,{br:O(q.br).replace("{2,}","*").getRegex(),text:O(q.gfm.text).replace("\\b_","\\b_| {2,}\\n").replace(/\{2,\}/g,"*").getRegex()});var x={block:x,inline:q},j=Z,U=u.exports.defaults,P=x.block,L=x.inline,M=_;function N(e){return e.replace(/---/g,"—").replace(/--/g,"–").replace(/(^|[-\u2014/(\[{"\s])'/g,"$1‘").replace(/'/g,"’").replace(/(^|[-\u2014/(\[{\u2018\s])"/g,"$1“").replace(/"/g,"”").replace(/\.{3}/g,"…")}function X(e){for(var u,t="",n=e.length,r=0;r<n;r++)u=e.charCodeAt(r),t+="&#"+(u=.5<Math.random()?"x"+u.toString(16):u)+";";return t}var q=function(){function t(e){this.tokens=[],this.tokens.links=Object.create(null),this.options=e||U,this.options.tokenizer=this.options.tokenizer||new j,this.tokenizer=this.options.tokenizer,this.tokenizer.options=this.options;e={block:P.normal,inline:L.normal};this.options.pedantic?(e.block=P.pedantic,e.inline=L.pedantic):this.options.gfm&&(e.block=P.gfm,this.options.breaks?e.inline=L.breaks:e.inline=L.gfm),this.tokenizer.rules=e}t.lex=function(e,u){return new t(u).lex(e)},t.lexInline=function(e,u){return new t(u).inlineTokens(e)};var e,u,n=t.prototype;return n.lex=function(e){return e=e.replace(/\r\n|\r/g,"\n").replace(/\t/g,"    "),this.blockTokens(e,this.tokens,!0),this.inline(this.tokens),this.tokens},n.blockTokens=function(e,u,t){var n,r,i,s;for(void 0===u&&(u=[]),void 0===t&&(t=!0),this.options.pedantic&&(e=e.replace(/^ +$/gm,""));e;)if(n=this.tokenizer.space(e))e=e.substring(n.raw.length),n.type&&u.push(n);else if(n=this.tokenizer.code(e))e=e.substring(n.raw.length),(s=u[u.length-1])&&"paragraph"===s.type?(s.raw+="\n"+n.raw,s.text+="\n"+n.text):u.push(n);else if(n=this.tokenizer.fences(e))e=e.substring(n.raw.length),u.push(n);else if(n=this.tokenizer.heading(e))e=e.substring(n.raw.length),u.push(n);else if(n=this.tokenizer.nptable(e))e=e.substring(n.raw.length),u.push(n);else if(n=this.tokenizer.hr(e))e=e.substring(n.raw.length),u.push(n);else if(n=this.tokenizer.blockquote(e))e=e.substring(n.raw.length),n.tokens=this.blockTokens(n.text,[],t),u.push(n);else if(n=this.tokenizer.list(e)){for(e=e.substring(n.raw.length),i=n.items.length,r=0;r<i;r++)n.items[r].tokens=this.blockTokens(n.items[r].text,[],!1);u.push(n)}else if(n=this.tokenizer.html(e))e=e.substring(n.raw.length),u.push(n);else if(t&&(n=this.tokenizer.def(e)))e=e.substring(n.raw.length),this.tokens.links[n.tag]||(this.tokens.links[n.tag]={href:n.href,title:n.title});else if(n=this.tokenizer.table(e))e=e.substring(n.raw.length),u.push(n);else if(n=this.tokenizer.lheading(e))e=e.substring(n.raw.length),u.push(n);else if(t&&(n=this.tokenizer.paragraph(e)))e=e.substring(n.raw.length),u.push(n);else if(n=this.tokenizer.text(e))e=e.substring(n.raw.length),(s=u[u.length-1])&&"text"===s.type?(s.raw+="\n"+n.raw,s.text+="\n"+n.text):u.push(n);else if(e){var l="Infinite loop on byte: "+e.charCodeAt(0);if(this.options.silent){console.error(l);break}throw new Error(l)}return u},n.inline=function(e){for(var u,t,n,r,i,s=e.length,l=0;l<s;l++)switch((i=e[l]).type){case"paragraph":case"text":case"heading":i.tokens=[],this.inlineTokens(i.text,i.tokens);break;case"table":for(i.tokens={header:[],cells:[]},n=i.header.length,u=0;u<n;u++)i.tokens.header[u]=[],this.inlineTokens(i.header[u],i.tokens.header[u]);for(n=i.cells.length,u=0;u<n;u++)for(r=i.cells[u],i.tokens.cells[u]=[],t=0;t<r.length;t++)i.tokens.cells[u][t]=[],this.inlineTokens(r[t],i.tokens.cells[u][t]);break;case"blockquote":this.inline(i.tokens);break;case"list":for(n=i.items.length,u=0;u<n;u++)this.inline(i.items[u].tokens)}return e},n.inlineTokens=function(e,u,t,n){var r;void 0===u&&(u=[]),void 0===t&&(t=!1),void 0===n&&(n=!1);var i,s,l,a=e;if(this.tokens.links){var D=Object.keys(this.tokens.links);if(0<D.length)for(;null!=(i=this.tokenizer.rules.inline.reflinkSearch.exec(a));)D.includes(i[0].slice(i[0].lastIndexOf("[")+1,-1))&&(a=a.slice(0,i.index)+"["+M("a",i[0].length-2)+"]"+a.slice(this.tokenizer.rules.inline.reflinkSearch.lastIndex))}for(;null!=(i=this.tokenizer.rules.inline.blockSkip.exec(a));)a=a.slice(0,i.index)+"["+M("a",i[0].length-2)+"]"+a.slice(this.tokenizer.rules.inline.blockSkip.lastIndex);for(;null!=(i=this.tokenizer.rules.inline.escapedEmSt.exec(a));)a=a.slice(0,i.index)+"++"+a.slice(this.tokenizer.rules.inline.escapedEmSt.lastIndex);for(;e;)if(s||(l=""),s=!1,r=this.tokenizer.escape(e))e=e.substring(r.raw.length),u.push(r);else if(r=this.tokenizer.tag(e,t,n)){e=e.substring(r.raw.length),t=r.inLink,n=r.inRawBlock;var o=u[u.length-1];o&&"text"===r.type&&"text"===o.type?(o.raw+=r.raw,o.text+=r.text):u.push(r)}else if(r=this.tokenizer.link(e))e=e.substring(r.raw.length),"link"===r.type&&(r.tokens=this.inlineTokens(r.text,[],!0,n)),u.push(r);else if(r=this.tokenizer.reflink(e,this.tokens.links)){e=e.substring(r.raw.length);o=u[u.length-1];"link"===r.type?(r.tokens=this.inlineTokens(r.text,[],!0,n),u.push(r)):o&&"text"===r.type&&"text"===o.type?(o.raw+=r.raw,o.text+=r.text):u.push(r)}else if(r=this.tokenizer.emStrong(e,a,l))e=e.substring(r.raw.length),r.tokens=this.inlineTokens(r.text,[],t,n),u.push(r);else if(r=this.tokenizer.codespan(e))e=e.substring(r.raw.length),u.push(r);else if(r=this.tokenizer.br(e))e=e.substring(r.raw.length),u.push(r);else if(r=this.tokenizer.del(e))e=e.substring(r.raw.length),r.tokens=this.inlineTokens(r.text,[],t,n),u.push(r);else if(r=this.tokenizer.autolink(e,X))e=e.substring(r.raw.length),u.push(r);else if(t||!(r=this.tokenizer.url(e,X))){if(r=this.tokenizer.inlineText(e,n,N))e=e.substring(r.raw.length),"_"!==r.raw.slice(-1)&&(l=r.raw.slice(-1)),s=!0,(c=u[u.length-1])&&"text"===c.type?(c.raw+=r.raw,c.text+=r.text):u.push(r);else if(e){var c="Infinite loop on byte: "+e.charCodeAt(0);if(this.options.silent){console.error(c);break}throw new Error(c)}}else e=e.substring(r.raw.length),u.push(r);return u},e=t,u=[{key:"rules",get:function(){return{block:P,inline:L}}}],(n=null)&&r(e.prototype,n),u&&r(e,u),t}(),G=u.exports.defaults,V=B,H=b,x=function(){function e(e){this.options=e||G}var u=e.prototype;return u.code=function(e,u,t){var n=(u||"").match(/\S*/)[0];return!this.options.highlight||null!=(u=this.options.highlight(e,n))&&u!==e&&(t=!0,e=u),e=e.replace(/\n$/,"")+"\n",n?'<pre><code class="'+this.options.langPrefix+H(n,!0)+'">'+(t?e:H(e,!0))+"</code></pre>\n":"<pre><code>"+(t?e:H(e,!0))+"</code></pre>\n"},u.blockquote=function(e){return"<blockquote>\n"+e+"</blockquote>\n"},u.html=function(e){return e},u.heading=function(e,u,t,n){return this.options.headerIds?"<h"+u+' id="'+this.options.headerPrefix+n.slug(t)+'">'+e+"</h"+u+">\n":"<h"+u+">"+e+"</h"+u+">\n"},u.hr=function(){return this.options.xhtml?"<hr/>\n":"<hr>\n"},u.list=function(e,u,t){var n=u?"ol":"ul";return"<"+n+(u&&1!==t?' start="'+t+'"':"")+">\n"+e+"</"+n+">\n"},u.listitem=function(e){return"<li>"+e+"</li>\n"},u.checkbox=function(e){return"<input "+(e?'checked="" ':"")+'disabled="" type="checkbox"'+(this.options.xhtml?" /":"")+"> "},u.paragraph=function(e){return"<p>"+e+"</p>\n"},u.table=function(e,u){return"<table>\n<thead>\n"+e+"</thead>\n"+(u=u&&"<tbody>"+u+"</tbody>")+"</table>\n"},u.tablerow=function(e){return"<tr>\n"+e+"</tr>\n"},u.tablecell=function(e,u){var t=u.header?"th":"td";return(u.align?"<"+t+' align="'+u.align+'">':"<"+t+">")+e+"</"+t+">\n"},u.strong=function(e){return"<strong>"+e+"</strong>"},u.em=function(e){return"<em>"+e+"</em>"},u.codespan=function(e){return"<code>"+e+"</code>"},u.br=function(){return this.options.xhtml?"<br/>":"<br>"},u.del=function(e){return"<del>"+e+"</del>"},u.link=function(e,u,t){if(null===(e=V(this.options.sanitize,this.options.baseUrl,e)))return t;e='<a href="'+H(e)+'"';return u&&(e+=' title="'+u+'"'),e+=">"+t+"</a>"},u.image=function(e,u,t){if(null===(e=V(this.options.sanitize,this.options.baseUrl,e)))return t;t='<img src="'+e+'" alt="'+t+'"';return u&&(t+=' title="'+u+'"'),t+=this.options.xhtml?"/>":">"},u.text=function(e){return e},e}(),_=function(){function e(){}var u=e.prototype;return u.strong=function(e){return e},u.em=function(e){return e},u.codespan=function(e){return e},u.del=function(e){return e},u.html=function(e){return e},u.text=function(e){return e},u.link=function(e,u,t){return""+t},u.image=function(e,u,t){return""+t},u.br=function(){return""},e}(),B=function(){function e(){this.seen={}}var u=e.prototype;return u.serialize=function(e){return e.toLowerCase().trim().replace(/<[!\/a-z].*?>/gi,"").replace(/[\u2000-\u206F\u2E00-\u2E7F\\'!"#$%&()*+,./:;<=>?@[\]^`{|}~]/g,"").replace(/\s/g,"-")},u.getNextSafeSlug=function(e,u){var t=e,n=0;if(this.seen.hasOwnProperty(t))for(n=this.seen[e];t=e+"-"+ ++n,this.seen.hasOwnProperty(t););return u||(this.seen[e]=n,this.seen[t]=0),t},u.slug=function(e,u){void 0===u&&(u={});var t=this.serialize(e);return this.getNextSafeSlug(t,u.dryrun)},e}(),J=x,K=_,Q=B,W=u.exports.defaults,Y=m,ee=q,ue=function(){function t(e){this.options=e||W,this.options.renderer=this.options.renderer||new J,this.renderer=this.options.renderer,this.renderer.options=this.options,this.textRenderer=new K,this.slugger=new Q}t.parse=function(e,u){return new t(u).parse(e)},t.parseInline=function(e,u){return new t(u).parseInline(e)};var e=t.prototype;return e.parse=function(e,u){void 0===u&&(u=!0);for(var t,n,r,i,s,l,a,D,o,c,h,p,g,f,F,A="",C=e.length,d=0;d<C;d++)switch((D=e[d]).type){case"space":continue;case"hr":A+=this.renderer.hr();continue;case"heading":A+=this.renderer.heading(this.parseInline(D.tokens),D.depth,Y(this.parseInline(D.tokens,this.textRenderer)),this.slugger);continue;case"code":A+=this.renderer.code(D.text,D.lang,D.escaped);continue;case"table":for(l=o="",r=D.header.length,t=0;t<r;t++)l+=this.renderer.tablecell(this.parseInline(D.tokens.header[t]),{header:!0,align:D.align[t]});for(o+=this.renderer.tablerow(l),a="",r=D.cells.length,t=0;t<r;t++){for(l="",i=(s=D.tokens.cells[t]).length,n=0;n<i;n++)l+=this.renderer.tablecell(this.parseInline(s[n]),{header:!1,align:D.align[n]});a+=this.renderer.tablerow(l)}A+=this.renderer.table(o,a);continue;case"blockquote":a=this.parse(D.tokens),A+=this.renderer.blockquote(a);continue;case"list":for(o=D.ordered,E=D.start,c=D.loose,r=D.items.length,a="",t=0;t<r;t++)g=(p=D.items[t]).checked,f=p.task,h="",p.task&&(F=this.renderer.checkbox(g),c?0<p.tokens.length&&"text"===p.tokens[0].type?(p.tokens[0].text=F+" "+p.tokens[0].text,p.tokens[0].tokens&&0<p.tokens[0].tokens.length&&"text"===p.tokens[0].tokens[0].type&&(p.tokens[0].tokens[0].text=F+" "+p.tokens[0].tokens[0].text)):p.tokens.unshift({type:"text",text:F}):h+=F),h+=this.parse(p.tokens,c),a+=this.renderer.listitem(h,f,g);A+=this.renderer.list(a,o,E);continue;case"html":A+=this.renderer.html(D.text);continue;case"paragraph":A+=this.renderer.paragraph(this.parseInline(D.tokens));continue;case"text":for(a=D.tokens?this.parseInline(D.tokens):D.text;d+1<C&&"text"===e[d+1].type;)a+="\n"+((D=e[++d]).tokens?this.parseInline(D.tokens):D.text);A+=u?this.renderer.paragraph(a):a;continue;default:var E='Token with "'+D.type+'" type was not found.';if(this.options.silent)return void console.error(E);throw new Error(E)}return A},e.parseInline=function(e,u){u=u||this.renderer;for(var t,n="",r=e.length,i=0;i<r;i++)switch((t=e[i]).type){case"escape":n+=u.text(t.text);break;case"html":n+=u.html(t.text);break;case"link":n+=u.link(t.href,t.title,this.parseInline(t.tokens,u));break;case"image":n+=u.image(t.href,t.title,t.text);break;case"strong":n+=u.strong(this.parseInline(t.tokens,u));break;case"em":n+=u.em(this.parseInline(t.tokens,u));break;case"codespan":n+=u.codespan(t.text);break;case"br":n+=u.br();break;case"del":n+=u.del(this.parseInline(t.tokens,u));break;case"text":n+=u.text(t.text);break;default:var s='Token with "'+t.type+'" type was not found.';if(this.options.silent)return void console.error(s);throw new Error(s)}return n},t}(),te=Z,ne=x,_=_,B=B,re=v,ie=y,se=b,y=u.exports.getDefaults,le=u.exports.changeDefaults,b=u.exports.defaults;function ae(e,t,n){if(null==e)throw new Error("marked(): input parameter is undefined or null");if("string"!=typeof e)throw new Error("marked(): input parameter is of type "+Object.prototype.toString.call(e)+", string expected");if("function"==typeof t&&(n=t,t=null),t=re({},ae.defaults,t||{}),ie(t),n){var r,i=t.highlight;try{r=ee.lex(e,t)}catch(e){return n(e)}var s=function(u){var e;if(!u)try{t.walkTokens&&ae.walkTokens(r,t.walkTokens),e=ue.parse(r,t)}catch(e){u=e}return t.highlight=i,u?n(u):n(null,e)};if(!i||i.length<3)return s();if(delete t.highlight,!r.length)return s();var l=0;return ae.walkTokens(r,function(t){"code"===t.type&&(l++,setTimeout(function(){i(t.text,t.lang,function(e,u){return e?s(e):(null!=u&&u!==t.text&&(t.text=u,t.escaped=!0),void(0===--l&&s()))})},0))}),void(0===l&&s())}try{var u=ee.lex(e,t);return t.walkTokens&&ae.walkTokens(u,t.walkTokens),ue.parse(u,t)}catch(e){if(e.message+="\nPlease report this to https://github.com/markedjs/marked.",t.silent)return"<p>An error occurred:</p><pre>"+se(e.message+"",!0)+"</pre>";throw e}}return ae.options=ae.setOptions=function(e){return re(ae.defaults,e),le(ae.defaults),ae},ae.getDefaults=y,ae.defaults=b,ae.use=function(l){var u,t=re({},l);l.renderer&&function(){var e,s=ae.defaults.renderer||new ne;for(e in l.renderer)!function(r){var i=s[r];s[r]=function(){for(var e=arguments.length,u=new Array(e),t=0;t<e;t++)u[t]=arguments[t];var n=l.renderer[r].apply(s,u);return n=!1===n?i.apply(s,u):n}}(e);t.renderer=s}(),l.tokenizer&&function(){var e,s=ae.defaults.tokenizer||new te;for(e in l.tokenizer)!function(r){var i=s[r];s[r]=function(){for(var e=arguments.length,u=new Array(e),t=0;t<e;t++)u[t]=arguments[t];var n=l.tokenizer[r].apply(s,u);return n=!1===n?i.apply(s,u):n}}(e);t.tokenizer=s}(),l.walkTokens&&(u=ae.defaults.walkTokens,t.walkTokens=function(e){l.walkTokens(e),u&&u(e)}),ae.setOptions(t)},ae.walkTokens=function(e,u){for(var t,n=c(e);!(t=n()).done;){var r=t.value;switch(u(r),r.type){case"table":for(var i=c(r.tokens.header);!(s=i()).done;){var s=s.value;ae.walkTokens(s,u)}for(var l,a=c(r.tokens.cells);!(l=a()).done;)for(var D=c(l.value);!(o=D()).done;){var o=o.value;ae.walkTokens(o,u)}break;case"list":ae.walkTokens(r.items,u);break;default:r.tokens&&ae.walkTokens(r.tokens,u)}}},ae.parseInline=function(e,u){if(null==e)throw new Error("marked.parseInline(): input parameter is undefined or null");if("string"!=typeof e)throw new Error("marked.parseInline(): input parameter is of type "+Object.prototype.toString.call(e)+", string expected");u=re({},ae.defaults,u||{}),ie(u);try{var t=ee.lexInline(e,u);return u.walkTokens&&ae.walkTokens(t,u.walkTokens),ue.parseInline(t,u)}catch(e){if(e.message+="\nPlease report this to https://github.com/markedjs/marked.",u.silent)return"<p>An error occurred:</p><pre>"+se(e.message+"",!0)+"</pre>";throw e}},ae.Parser=ue,ae.parser=ue.parse,ae.Renderer=ne,ae.TextRenderer=_,ae.Lexer=ee,ae.lexer=ee.lex,ae.Tokenizer=te,ae.Slugger=B,ae.parse=ae});

diff --git a/index.html b/index.html
@@ -7,6 +7,7 @@
     <link rel="stylesheet" href="css/dep/bootstrap.min.css" type="text/css">
     <link rel="stylesheet" href="css/edt/default.css" type="text/css">
     <link rel="stylesheet" href="css/edt/editor.css" type="text/css">
+    <link rel="stylesheet" href="css/edt/preview.css" type="text/css">
 </head>
 <body>
 
@@ -35,10 +36,10 @@
             <div id="editor-grp">
                 <ul class="nav nav-tabs">
                     <li class="nav-item">
-                      <a class="nav-link tab-nav active" href="#" data-section-to="editor" data-section-from="">Editor</a>
+                      <a class="nav-link tab-nav active" href="#" data-section-to="editor" data-section-from="" id="editor-open">Editor</a>
                     </li>
                     <li class="nav-item">
-                        <a class="nav-link tab-nav" href="#" data-section-to="preview" data-section-from="">Preview</a>
+                        <a class="nav-link tab-nav" href="#" data-section-to="preview" data-section-from="" id="preview-open">Preview</a>
                     </li>
                 </ul>
 
@@ -169,6 +170,8 @@
     </div>
     
     <script src="JS/dep/bootstrap.bundle.min.js"></script>
+    <script src="JS/dep/marked.min.js"></script>
+    <script src="JS/edt/preview.js"></script>
     <script src="JS/edt/tabMaster.js"></script>
     <script src="JS/edt/editor.js"></script>
 </body>

diff --git a/JS/edt/preview.js b/JS/edt/preview.js
@@ -1,0 +1,17 @@
+/* 
+    Load preview of markdown content
+    Requires markedJS
+*/
+
+const txt = document.getElementById('note-edit');
+const preSect = document.getElementById('js-preview-window');
+
+const previewContent = (md = txt.value? txt.value: '', sect = preSect) => {
+    sect.innerHTML = marked(md);
+};
+
+const pBtn = document.getElementById('preview-open');
+
+if (pBtn) {
+    pBtn.addEventListener('click', () => previewContent());
+};

diff --git a/CSS/edt/default.css b/CSS/edt/default.css
@@ -19,6 +19,10 @@ form {
     margin-bottom: 10em;
 }
 
+blockquote {
+    border-left: 1px solid darkslategrey;
+}
+
 blockquote > p {
     padding-left: 1em;
     font-weight: bold;
@@ -26,6 +30,10 @@ blockquote > p {
 
 #s-section {
     padding: 3em 0 3em 0;
+}
+
+a {
+    text-decoration: none;
 }
 
 @media screen and (max-width: 450px) {

diff --git a/CSS/edt/editor.css b/CSS/edt/editor.css
@@ -57,17 +57,3 @@
     width: 8em;
     height: 4em;
 }
-
-
-#preview {
-    border: 1px solid #e5e5e5;
-    min-height: 70vh;
-}
-
-#js-preview-window {
-    border: 1px solid rgba(0, 0, 255, 0.055);
-    min-height: 70vh;
-    margin: 1em 1em 1em 1em;
-    padding: 0.3em;
-}
-

diff --git a/CSS/edt/preview.css b/CSS/edt/preview.css
@@ -1,0 +1,11 @@
+#preview {
+    border: 1px solid #e5e5e5;
+    min-height: 70vh;
+}
+
+#js-preview-window {
+    border: 1px solid rgba(0, 0, 255, 0.055);
+    min-height: 70vh;
+    margin: 1em 1em 1em 1em;
+    padding: 0.3em;
+}

diff --git a/JS/edt/tabMaster.js b/JS/edt/tabMaster.js
@@ -1,3 +1,7 @@
+/* 
+    Swith tabs around
+*/
+
 let activeLink; // hold the active link
 
 
